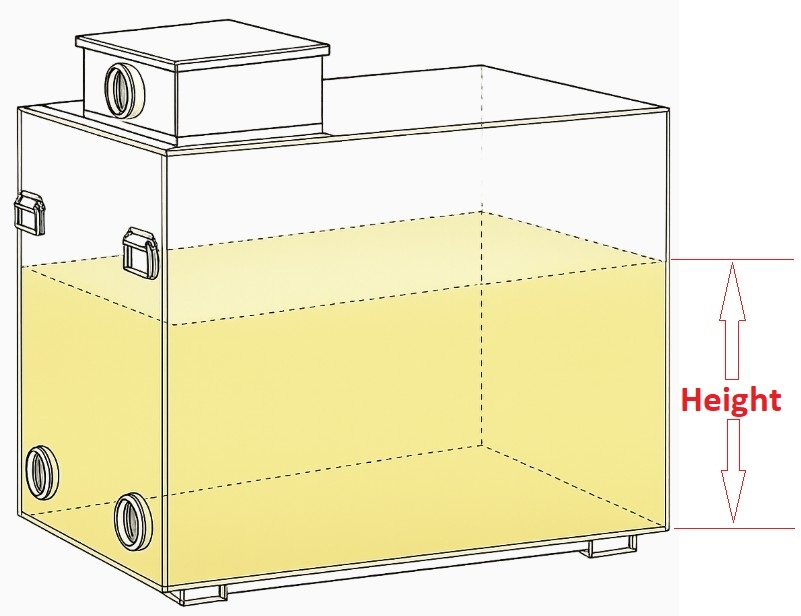
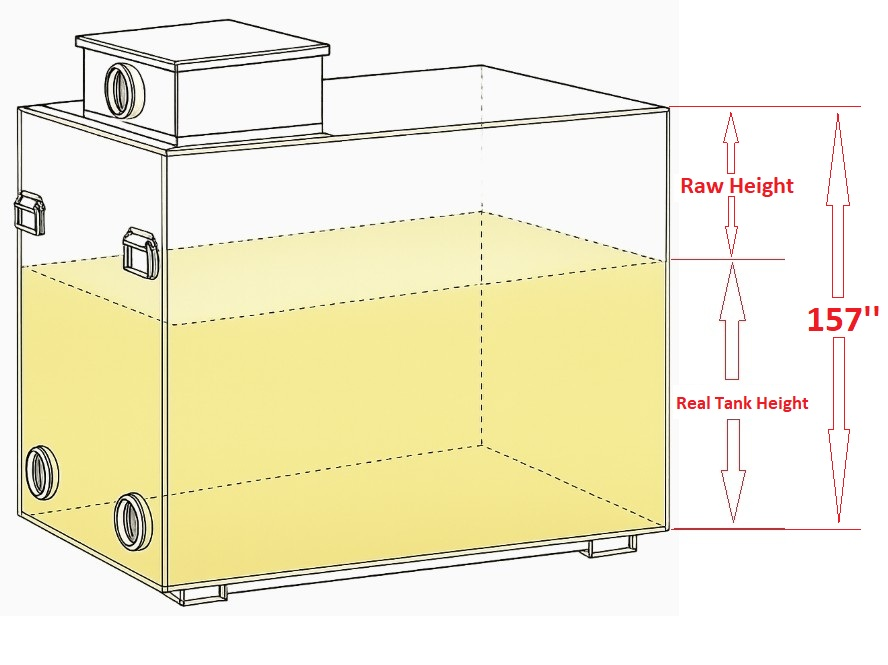
Remove unused push button binding lookup routes

Changed region(s): [[0.0, 0.0308, 0.9988, 0.987], [0.593, 0.7094, 0.6866, 0.7711], [0.2809, 0.7711, 0.3121, 0.8019]]

diff --git a/src/components/Sidebarleftwirelesstankmodal.jsx b/src/components/Sidebarleftwirelesstankmodal.jsx
@@ -40,15 +40,23 @@ function normalizeImei(value) {
   return String(value || "").trim().replace(/\D/g, "");
 }
 
-function evaluateHeightFormula(formula, value) {
+function normalizeNumberInput(value) {
+  return String(value || "").replace(/[^\d.-]/g, "");
+}
+
+function evaluateHeightFormula(formula, value, realTankHeight) {
   const liveValue = Number(value);
   if (!Number.isFinite(liveValue)) return "--";
 
+  const tankHeight = Number(realTankHeight);
   const cleanFormula = String(formula || "").trim();
+
   if (!cleanFormula) return liveValue.toFixed(2);
 
   try {
     const expression = cleanFormula
+      .replace(/\bREAL_TANK_HEIGHT\b/g, Number.isFinite(tankHeight) ? String(tankHeight) : "0")
+      .replace(/\bTANK_HEIGHT\b/g, Number.isFinite(tankHeight) ? String(tankHeight) : "0")
       .replace(/\bVALUE\b/g, String(liveValue))
       .replace(/\bvalue\b/g, String(liveValue));
 
@@ -156,6 +164,12 @@ export default function Sidebarleftwirelesstankmodal({
   const [unitId, setUnitId] = useState(props.unitId || props.bindDeviceId || "");
   const [unitQuery, setUnitQuery] = useState("");
 
+  const [realTankHeight, setRealTankHeight] = useState(
+    props.realTankHeight === undefined || props.realTankHeight === null
+      ? ""
+      : String(props.realTankHeight)
+  );
+
   const [heightFormula, setHeightFormula] = useState(
     props.heightFormula || "(VALUE-4000)*0.005"
   );
@@ -247,6 +261,11 @@ export default function Sidebarleftwirelesstankmodal({
     setModel(p.bindModel || "cfr100");
     setUnitId(p.unitId || p.bindDeviceId || "");
     setUnitQuery("");
+    setRealTankHeight(
+      p.realTankHeight === undefined || p.realTankHeight === null
+        ? ""
+        : String(p.realTankHeight)
+    );
     setHeightFormula(p.heightFormula || "(VALUE-4000)*0.005");
   }, [tank]);
 
@@ -276,9 +295,12 @@ export default function Sidebarleftwirelesstankmodal({
     return units.find((u) => String(u.unitId) === String(unitId)) || null;
   }, [units, unitId]);
 
-  // ✅ Raw Height for the math section is the same Raw Height shown in telemetry.
   const liveRawHeight = selectedUnit?.height_in || "--";
-  const liveMathOutput = evaluateHeightFormula(heightFormula, liveRawHeight);
+  const liveMathOutput = evaluateHeightFormula(
+    heightFormula,
+    liveRawHeight,
+    realTankHeight
+  );
 
   const liveTemperature = selectedUnit?.temperature_F || "--";
   const liveBattery = selectedUnit?.battery_V || "--";
@@ -518,47 +540,23 @@ export default function Sidebarleftwirelesstankmodal({
                 Math
               </div>
 
-              <div
-                style={{
-                  display: "grid",
-                  gridTemplateColumns: "1fr 170px",
-                  gap: 12,
-                  alignItems: "start",
-                }}
-              >
-                <div style={{ display: "grid", gap: 6 }}>
-                  <div style={labelStyle}>Title (Top of Display)</div>
-                  <input
-                    value={title}
-                    onChange={(e) => setTitle(e.target.value)}
-                    style={inputStyle}
-                    placeholder="Tank#1"
-                  />
-                  <div style={{ fontSize: 11, color: "#64748b" }}>
-                    This shows above the label on the widget.
-                  </div>
-                </div>
-
-                <div style={{ display: "grid", gap: 6 }}>
-                  <div style={labelStyle}>Display Digits</div>
-                  <input
-                    value={props.displayDigits || "2"}
-                    readOnly
-                    style={{
-                      ...inputStyle,
-                      background: "#f8fafc",
-                    }}
-                  />
-                  <div style={{ fontSize: 11, color: "#64748b" }}>
-                    4 = 0000, 6 = 000000
-                  </div>
+              <div style={{ display: "grid", gap: 6 }}>
+                <div style={labelStyle}>Title (Top of Display)</div>
+                <input
+                  value={title}
+                  onChange={(e) => setTitle(e.target.value)}
+                  style={inputStyle}
+                  placeholder="Tank#1"
+                />
+                <div style={{ fontSize: 11, color: "#64748b" }}>
+                  This shows above the label on the widget.
                 </div>
               </div>
 
               <div
                 style={{
                   display: "grid",
-                  gridTemplateColumns: "1fr 1fr",
+                  gridTemplateColumns: "1fr 190px 1fr",
                   gap: 12,
                   alignItems: "center",
                   marginTop: 6,
@@ -582,6 +580,41 @@ export default function Sidebarleftwirelesstankmodal({
                   >
                     {liveRawHeight}
                   </div>
+                </div>
+
+                <div
+                  style={{
+                    display: "grid",
+                    gap: 6,
+                    padding: 10,
+                    borderRadius: 12,
+                    background: "#ffffff",
+                    border: "1px solid #cbd5e1",
+                    boxShadow: "0 1px 2px rgba(15,23,42,0.06)",
+                  }}
+                >
+                  <div
+                    style={{
+                      ...labelStyle,
+                      textAlign: "center",
+                    }}
+                  >
+                    Real Tank Height
+                  </div>
+
+                  <input
+                    value={realTankHeight}
+                    onChange={(e) =>
+                      setRealTankHeight(normalizeNumberInput(e.target.value))
+                    }
+                    style={{
+                      ...inputStyle,
+                      textAlign: "center",
+                      fontFamily: "monospace",
+                      fontWeight: 900,
+                    }}
+                    placeholder="ex: 157"
+                  />
                 </div>
 
                 <div style={{ textAlign: "right" }}>
@@ -611,7 +644,7 @@ export default function Sidebarleftwirelesstankmodal({
                 <textarea
                   value={heightFormula}
                   onChange={(e) => setHeightFormula(e.target.value)}
-                  placeholder="Example: VALUE - 100"
+                  placeholder="Example: REAL_TANK_HEIGHT - VALUE"
                   style={{
                     minHeight: 74,
                     borderRadius: 10,
@@ -656,9 +689,9 @@ export default function Sidebarleftwirelesstankmodal({
                   <div style={{ fontWeight: 900, marginBottom: 7 }}>
                     Combined Examples
                   </div>
+                  <div>REAL_TANK_HEIGHT - VALUE</div>
                   <div>(VALUE * 1.5) + 5</div>
                   <div>(VALUE / 4095) * 20 - 4</div>
-                  <div>VALUE - 100</div>
                 </div>
 
                 <div>
@@ -666,7 +699,7 @@ export default function Sidebarleftwirelesstankmodal({
                     Current Output
                   </div>
                   <div>VALUE = Raw Height</div>
-                  <div>Raw Height = inches</div>
+                  <div>REAL_TANK_HEIGHT = existing tank height</div>
                   <div>Sent to widget as heightValue</div>
                 </div>
               </div>
@@ -876,6 +909,7 @@ export default function Sidebarleftwirelesstankmodal({
                       bindBatteryField: "battery_v",
                       bindDateField: "received_at",
 
+                      realTankHeight,
                       heightFormula,
                       rawHeightValue: selected.height_in || "--",
                       rawHeightMmValue: